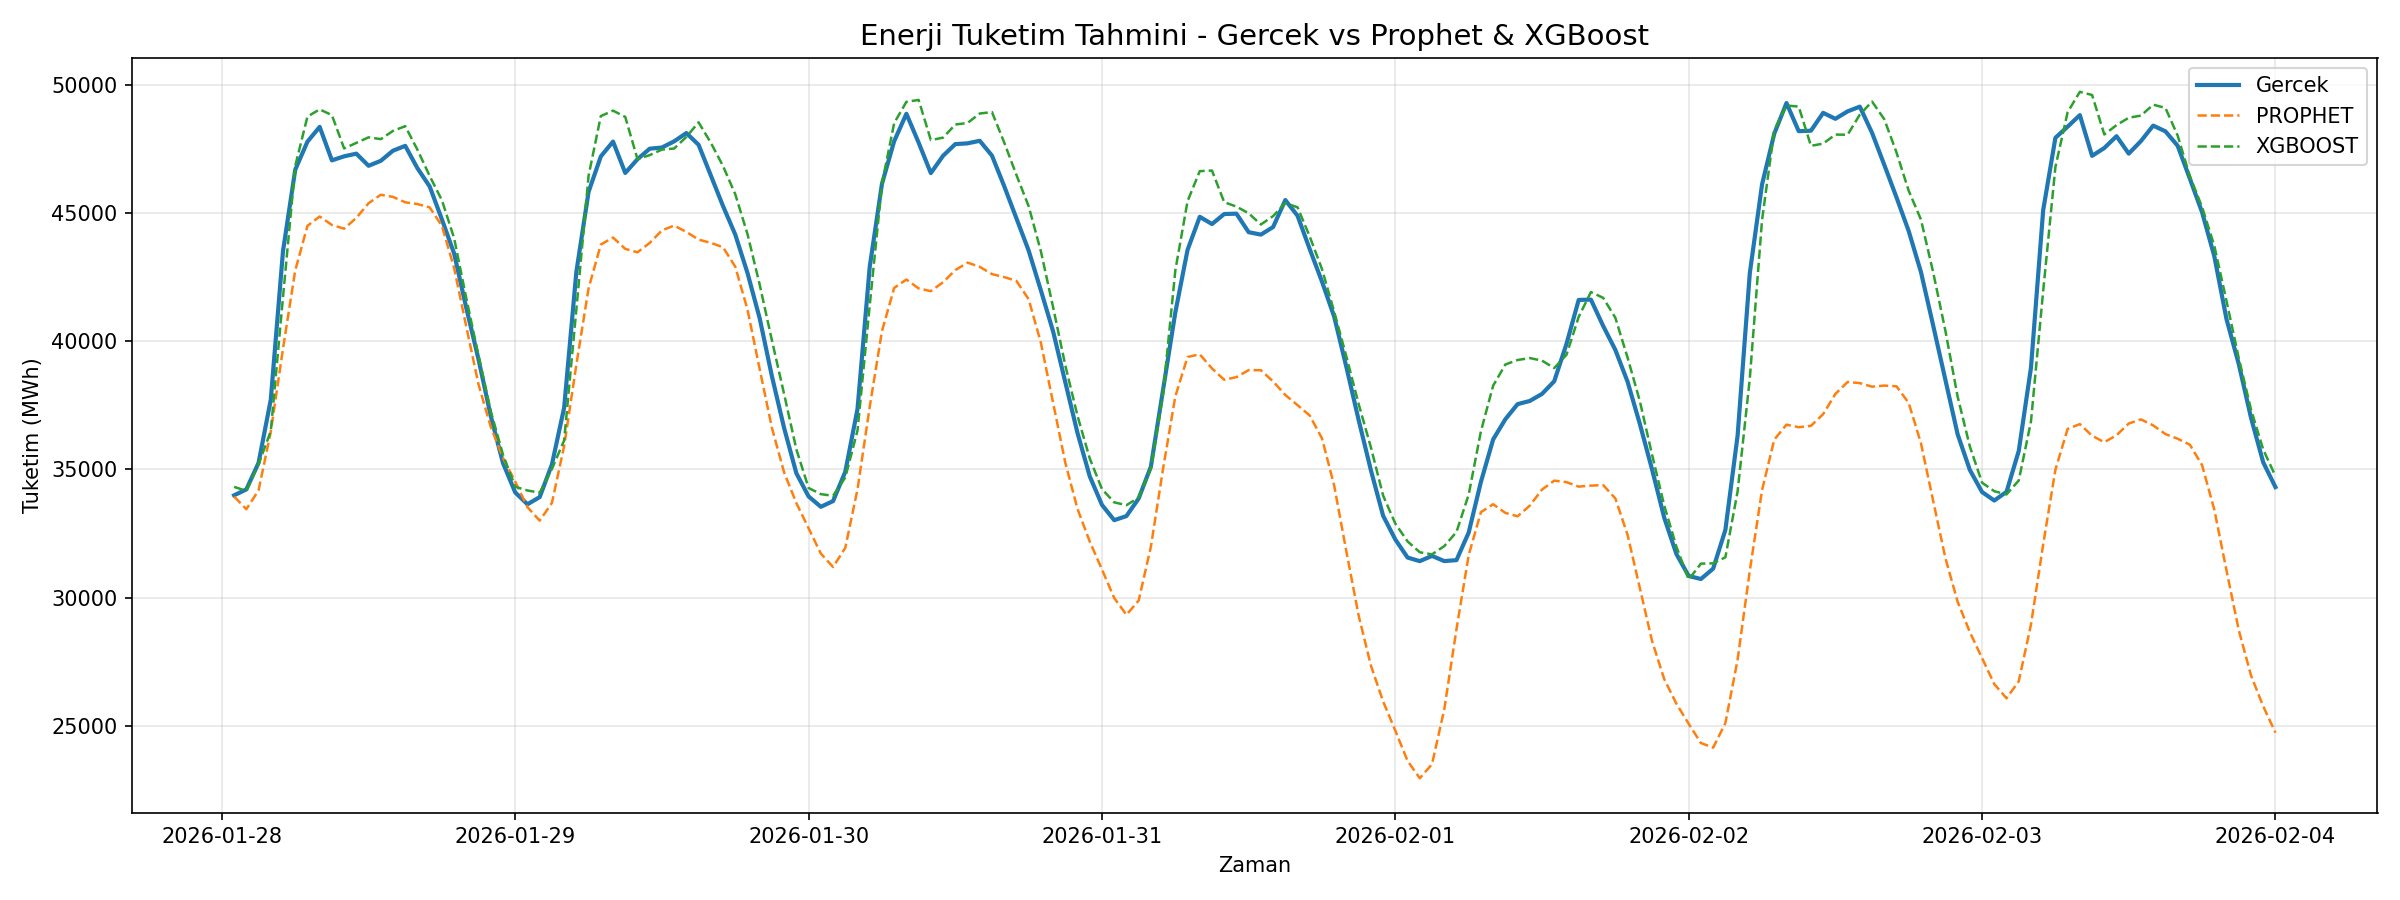
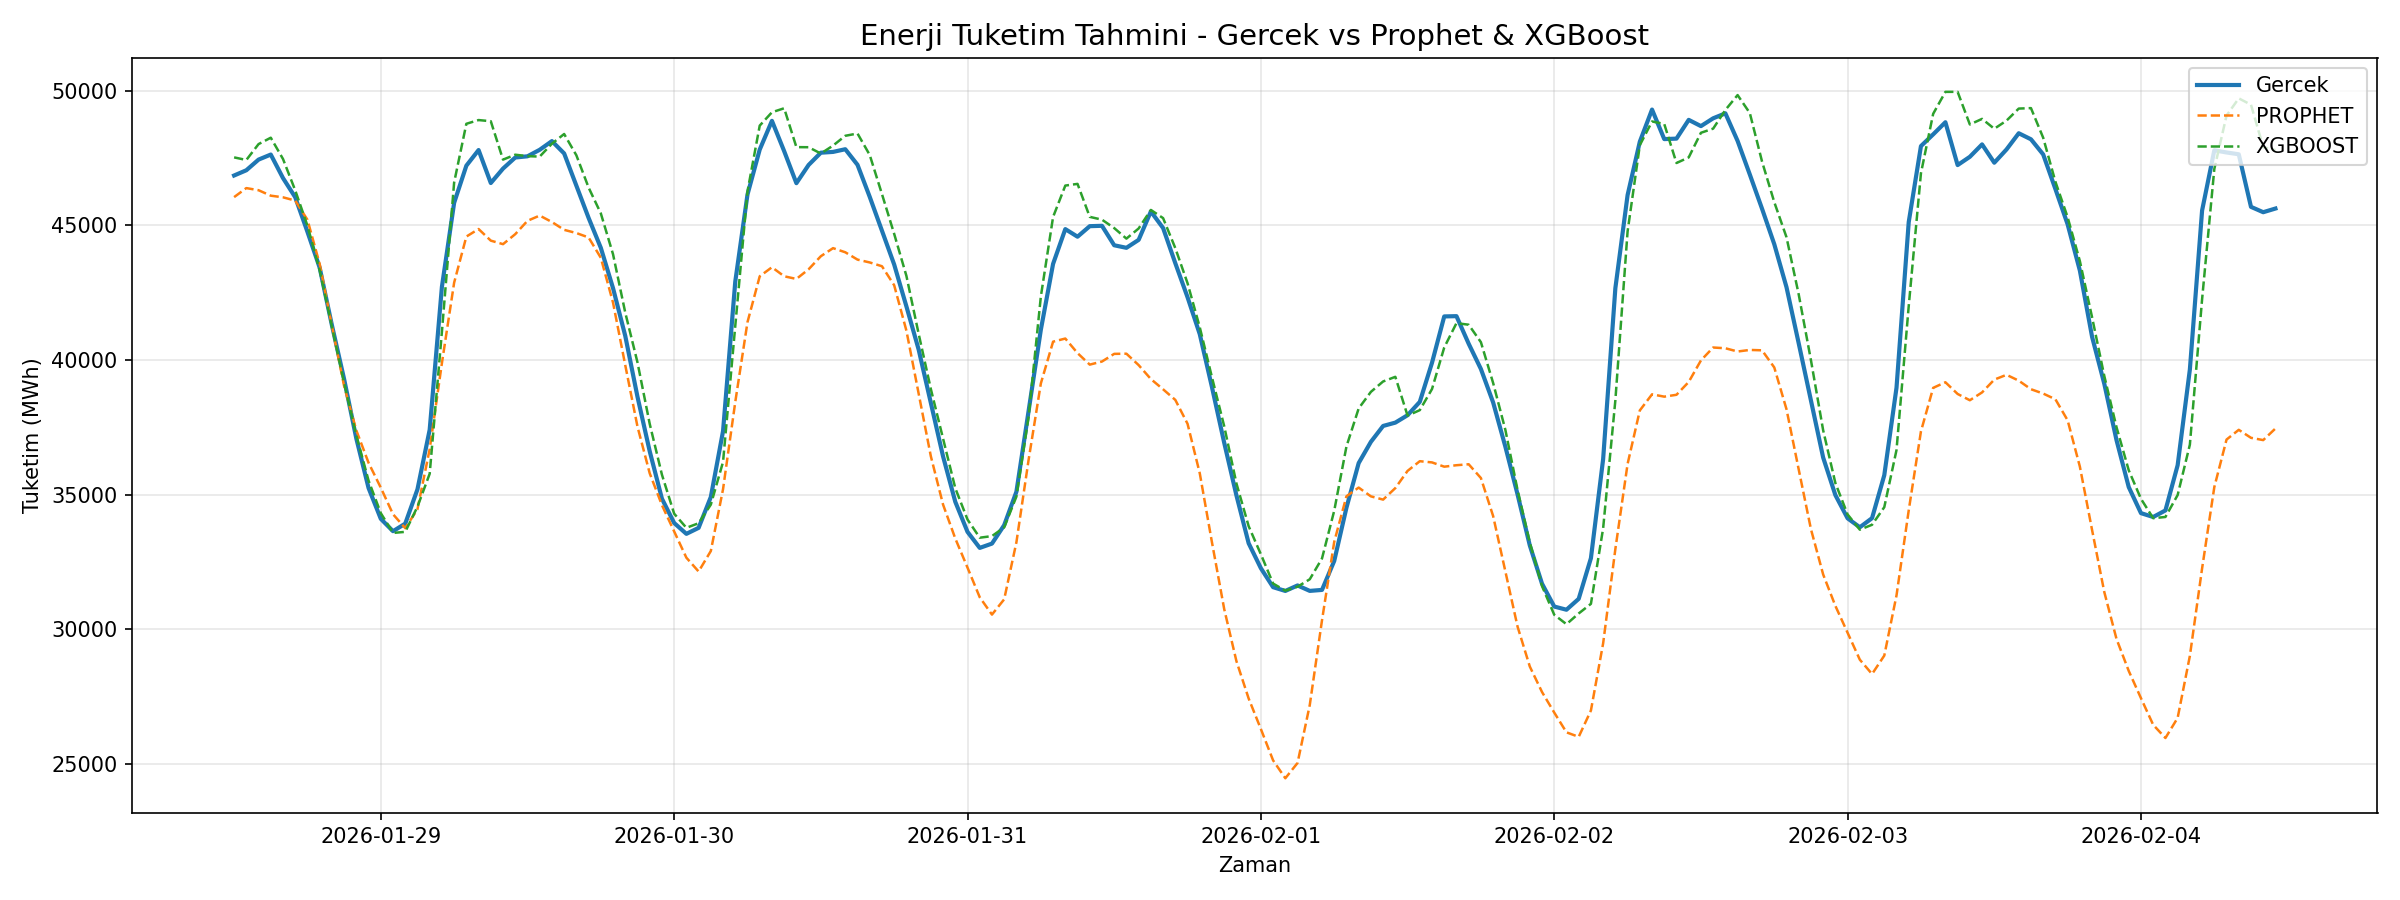
Update README to reflect current architecture, remove demo references
- Remove demo mode / graceful degradation mentions (dashboard is pure Supabase reader)
- Document new API routes: /api/forecast/shap, /api/forecast/latest, /api/forecast/compare
- Add Data Flow diagram showing Cron -> ML API -> Supabase -> Dashboard separation
- Update model performance table with latest evaluate.py results
- Add Deployment section with Vercel Cron schedules
- Document forecasts.metadata column for SHAP storage
- Fix Unicode arrow in data_collector.py causing Windows encoding error
- Update evaluation output charts

diff --git a/python/data_collector.py b/python/data_collector.py
@@ -223,7 +223,7 @@ def collect_data(start_date: str, end_date: str) -> int:
     Returns:
         Kaydedilen satır sayısı
     """
-    print(f"Veri toplama başlatılıyor: {start_date} → {end_date}")
+    print(f"Veri toplama baslatiliyor: {start_date} -> {end_date}")
 
     # 1. EPİAŞ tüketim verisi
     print("EPİAŞ'tan tüketim verisi çekiliyor...")

diff --git a/README.md b/README.md
@@ -20,8 +20,8 @@ End-to-end machine learning platform that ingests live data from EPİAŞ (Turkey
 - **Fair Multi-Period Evaluation** — Rolling 24-step forecast windows across 6 periods (1 day → 1 year), each with independent winner determination
 - **Memory-Efficient Serving** — Lazy-load context manager pattern loads one model at a time, enabling deployment on 512 MB RAM (Render free tier)
 - **Full-Stack Dashboard** — Next.js 16 App Router with real-time KPIs, interactive charts, heatmaps, scenario analysis, and multi-format export
-- **Graceful Degradation** — Dashboard operates in demo mode with deterministic seeded data when ML API is unavailable
-- **Model Transparency** — Color-coded metric comparison (green = winner, red = loser), per-metric tooltips, and technical evaluation methodology note
+- **Automated Data Pipeline** — Vercel Cron ingests hourly EPİAŞ data and refreshes daily forecasts automatically via ML API
+- **Model Transparency** — Color-coded metric comparison (green = winner, red = loser), per-metric tooltips, SHAP feature importance chart, and technical evaluation methodology note
 
 ---
 
@@ -38,7 +38,7 @@ End-to-end machine learning platform that ingests live data from EPİAŞ (Turkey
 | **Database** | Supabase (PostgreSQL 17) with Row Level Security |
 | **Model Persistence** | joblib (compress=3) |
 | **Export** | jsPDF (PDF reports), xlsx (Excel workbooks), CSV |
-| **Deployment** | Vercel (Frontend) + Render (Python API) |
+| **Deployment** | Vercel (Frontend + Cron) + Render (Python ML API) |
 
 ---
 
@@ -70,6 +70,7 @@ EPİAŞ Şeffaflık 2.0 API          Open-Meteo API
         │           ▼         │
         │    .pkl model files  │
         │    comparison results│
+        │    SHAP values       │
         └─────────┬───────────┘
                   │
         ┌─────────▼───────────┐
@@ -79,11 +80,31 @@ EPİAŞ Şeffaflık 2.0 API          Open-Meteo API
         └─────────┬───────────┘
                   │
         ┌─────────▼───────────┐
+        │  Vercel Cron Jobs    │
+        │  Hourly data ingest  │     /api/cron/update-data
+        │  Daily forecast run  │     /api/cron/run-forecast (06:00 UTC)
+        └─────────┬───────────┘
+                  │
+        ┌─────────▼───────────┐
         │  Next.js 16 Dashboard│
-        │  Real-time KPIs      │     Auto-detects API availability
-        │  Interactive charts  │     Falls back to demo mode
+        │  Pure Supabase reader│     All data from Supabase
+        │  Real-time KPIs      │     No direct ML API dependency
+        │  Interactive charts  │
         │  Multi-format export │
         └─────────────────────┘
+```
+
+### Data Flow
+
+The dashboard reads all data exclusively from Supabase. The ML API (on Render) is only called by Vercel Cron jobs to ingest data and generate forecasts. This separation ensures the dashboard stays responsive even when the ML API is cold-starting on Render's free tier.
+
+```
+Vercel Cron (hourly)  ──►  ML API /update-data  ──►  Supabase energy_readings
+Vercel Cron (daily)   ──►  ML API /forecast     ──►  Supabase forecasts
+                                                       + model_comparisons
+                                                       + SHAP metadata
+
+Dashboard (browser)   ──►  Next.js API routes   ──►  Supabase (read-only)
 ```
 
 ### Lazy-Load Model Pattern
@@ -135,7 +156,7 @@ Each period evaluates models independently — a model that excels at 1-day fore
 ## Dashboard Components
 
 ### KPI Cards
-Four summary cards computed from live data: average consumption (MWh), peak demand hour, best model accuracy (MAPE %), and winning model name. KPIs dynamically update based on the selected period filter.
+Four summary cards computed from Supabase data: average consumption (MWh), peak demand hour, best model accuracy (MAPE %), and winning model name. KPIs dynamically update based on the selected period filter.
 
 ### Forecast Chart
 Interactive line chart with actual vs. predicted values and 95% confidence band. Supports zoom/pan via mouse wheel and drag. Model selector switches between Prophet and XGBoost predictions.
@@ -147,13 +168,13 @@ Metric table comparing Prophet and XGBoost across MAPE, RMSE, MAE, and R². Gree
 7-day x 24-hour consumption heatmap. Color intensity scales from light (low demand) to dark blue (high demand). Peak cell highlighted with red outline. Cells with no data display "-" instead of misleading zeros.
 
 ### Feature Importance
-Horizontal bar chart of XGBoost SHAP values for all 14 engineered features. Shows which features drive predictions most (lag_1h and lag_24h typically dominate).
+Horizontal bar chart of XGBoost SHAP values for all 14 engineered features. SHAP values are computed during model evaluation and stored in the `forecasts.metadata` column. Shows which features drive predictions most (lag_1h and lag_24h typically dominate).
 
 ### Scenario Analysis
 Interactive what-if tool: adjust temperature, hour, day of week, and holiday flag via sliders and switches. XGBoost predicts consumption for the configured scenario in real-time.
 
 ### Forecast Table
-Scrollable data table with independent period filter (Son 24 Saat through 1 Yıl). Each period fetches its own data from Supabase. Columns: timestamp, actual consumption, Prophet prediction, Prophet error %, XGBoost prediction, XGBoost error %. Error cells are color-coded: green (<5%), yellow (5-10%), red (>10%). Sticky header, CSV export per selected period.
+Scrollable data table with independent period filter (Son 24 Saat through 1 Yıl). Each period fetches its own data from Supabase with paginated queries (handles 1000+ row batches). Columns: timestamp, actual consumption, Prophet prediction, Prophet error %, XGBoost prediction, XGBoost error %. Error cells are color-coded: green (<5%), yellow (5-10%), red (>10%). Sticky header, CSV export per selected period.
 
 ### Export Panel
 Multi-format export: PDF report (jsPDF with charts and metrics summary), Excel workbook (xlsx with structured sheets), and raw CSV. Export reflects the currently selected period and model data.
@@ -183,12 +204,12 @@ Meta's additive time series decomposition model. Configured with daily and yearl
 
 | Period | XGBoost MAPE | Prophet MAPE | Winner |
 |--------|-------------|-------------|--------|
-| 1 Gün | ~1.4% | ~3.5% | XGBoost |
-| 7 Gün | ~1.8% | ~5.2% | XGBoost |
-| 1 Ay | ~2.1% | ~12.8% | XGBoost |
-| 3 Ay | ~2.8% | ~38.6% | XGBoost |
-| 6 Ay | ~3.2% | ~72.4% | XGBoost |
-| 1 Yıl | ~3.7% | ~103.6% | XGBoost |
+| 1 Gün | 1.42% | 2.80% | XGBoost |
+| 7 Gün | 2.13% | 11.08% | XGBoost |
+| 1 Ay | 2.68% | 23.51% | XGBoost |
+| 3 Ay | 3.64% | 145.98% | XGBoost |
+| 6 Ay | 3.64% | 145.98% | XGBoost |
+| 1 Yıl | 3.64% | 145.98% | XGBoost |
 
 > Prophet's additive decomposition degrades significantly over longer horizons where lag-based features become critical. XGBoost's recursive strategy maintains sub-4% MAPE even at 1-year scale.
 
@@ -204,17 +225,19 @@ Meta's additive time series decomposition model. Configured with daily and yearl
 │   │   ├── globals.css                # Tailwind CSS 4 + oklch theme tokens
 │   │   ├── (dashboard)/
 │   │   │   ├── layout.tsx             # Dashboard shell (header, theme, onboarding)
-│   │   │   └── page.tsx               # Main dashboard (data loading, state, KPIs)
+│   │   │   └── page.tsx               # Main dashboard (Supabase data loading, state, KPIs)
 │   │   └── api/
-│   │       ├── energy/route.ts        # GET /api/energy (Supabase query)
+│   │       ├── energy/route.ts        # GET /api/energy (paginated Supabase query)
 │   │       ├── forecast/
 │   │       │   ├── route.ts           # GET /api/forecast
-│   │       │   ├── compare/route.ts   # GET /api/forecast/compare
+│   │       │   ├── compare/route.ts   # GET /api/forecast/compare (model_comparisons)
+│   │       │   ├── latest/route.ts    # GET /api/forecast/latest (forecasts table)
+│   │       │   ├── shap/route.ts      # GET /api/forecast/shap (SHAP from metadata)
 │   │       │   └── scenario/route.ts  # POST /api/forecast/scenario
 │   │       ├── models/route.ts        # GET /api/models
 │   │       └── cron/
-│   │           ├── update-data/       # Hourly EPİAŞ data ingestion
-│   │           └── run-forecast/      # Daily forecast refresh (06:00 UTC)
+│   │           ├── update-data/       # Hourly EPİAŞ data ingestion (Vercel Cron)
+│   │           └── run-forecast/      # Daily forecast refresh at 06:00 UTC (Vercel Cron)
 │   ├── components/
 │   │   ├── ForecastChart.tsx           # Line chart + confidence band + zoom/pan
 │   │   ├── ModelComparison.tsx         # Metric table + period tabs + color coding
@@ -236,8 +259,9 @@ Meta's additive time series decomposition model. Configured with daily and yearl
 │   ├── config.py                       # Environment configuration
 │   ├── data_collector.py               # EPİAŞ + Open-Meteo data pipeline
 │   ├── feature_engineering.py          # 14-feature engineering pipeline
-│   ├── evaluate.py                     # Multi-period rolling evaluation
+│   ├── evaluate.py                     # Multi-period rolling evaluation + SHAP
 │   ├── requirements.txt                # Python dependencies
+│   ├── requirements-render.txt         # Render deployment dependencies
 │   └── models/
 │       ├── __init__.py                 # Model exports (Prophet, XGBoost)
 │       ├── prophet_model.py            # Prophet + Turkish holidays
@@ -279,6 +303,7 @@ Model prediction results with error metrics.
 | forecast_horizon | int | Hours ahead: 24, 48, 168 |
 | predictions | jsonb | [{timestamp, value, lower, upper}] |
 | mape, rmse, mae | float8 | Error metrics |
+| metadata | jsonb | SHAP values (XGBoost only) |
 
 ### model_comparisons
 Per-period evaluation results from rolling forecast windows.
@@ -314,12 +339,14 @@ Per-period evaluation results from rolling forecast windows.
 
 | Method | Endpoint | Description |
 |--------|----------|-------------|
-| GET | `/api/energy?from=&to=&limit=` | Energy readings with date filters |
+| GET | `/api/energy?from=&to=&limit=` | Energy readings with date filters (paginated) |
 | GET | `/api/forecast?model=` | Forecast by model name |
-| GET | `/api/forecast/compare` | Comparison history |
+| GET | `/api/forecast/compare` | All period comparisons from Supabase |
+| GET | `/api/forecast/latest` | Latest forecast per model from Supabase |
+| GET | `/api/forecast/shap` | SHAP values from forecasts.metadata |
 | POST | `/api/forecast/scenario` | Proxy to ML scenario endpoint |
-| GET | `/api/cron/update-data` | Hourly data ingestion (Vercel Cron) |
-| GET | `/api/cron/run-forecast` | Daily forecast refresh (06:00 UTC) |
+| GET | `/api/cron/update-data` | Hourly EPİAŞ data ingestion (Vercel Cron) |
+| GET | `/api/cron/run-forecast` | Daily forecast + SHAP refresh (Vercel Cron, 06:00 UTC) |
 
 ---
 
@@ -358,15 +385,7 @@ Run migration scripts in Supabase SQL Editor in order:
 004_rls_and_indexes.sql
 ```
 
-### 4. Start Dashboard
-
-```bash
-npm run dev
-```
-
-Dashboard runs at [http://localhost:3000](http://localhost:3000) in **demo mode** with realistic seeded data. Green badge appears when ML API connects.
-
-### 5. ML Pipeline
+### 4. ML Pipeline
 
 ```bash
 cd python
@@ -375,12 +394,37 @@ pip install -r requirements.txt
 # Collect 1 year of EPİAŞ data
 python data_collector.py
 
-# Train models + run 6-period evaluation
+# Train models + run 6-period evaluation + save SHAP to Supabase
 python evaluate.py
 
 # Start API server
 uvicorn main:app --host 0.0.0.0 --port 8000 --reload
 ```
+
+### 5. Start Dashboard
+
+```bash
+npm run dev
+```
+
+Dashboard runs at [http://localhost:3000](http://localhost:3000). All data is loaded from Supabase — the dashboard works independently of the ML API.
+
+---
+
+## Deployment
+
+### Frontend (Vercel)
+
+The Next.js dashboard deploys to Vercel with automatic GitHub integration. Vercel Cron jobs handle automated data pipeline:
+
+| Cron | Schedule | Description |
+|------|----------|-------------|
+| `/api/cron/update-data` | Every hour (`0 * * * *`) | Fetches latest EPİAŞ data via ML API |
+| `/api/cron/run-forecast` | Daily 06:00 UTC (`0 6 * * *`) | Generates Prophet + XGBoost forecasts |
+
+### ML API (Render)
+
+Python FastAPI deploys to Render free tier with lazy-load model pattern (512 MB RAM). Models are loaded on-demand and freed after each request.
 
 ---
 
